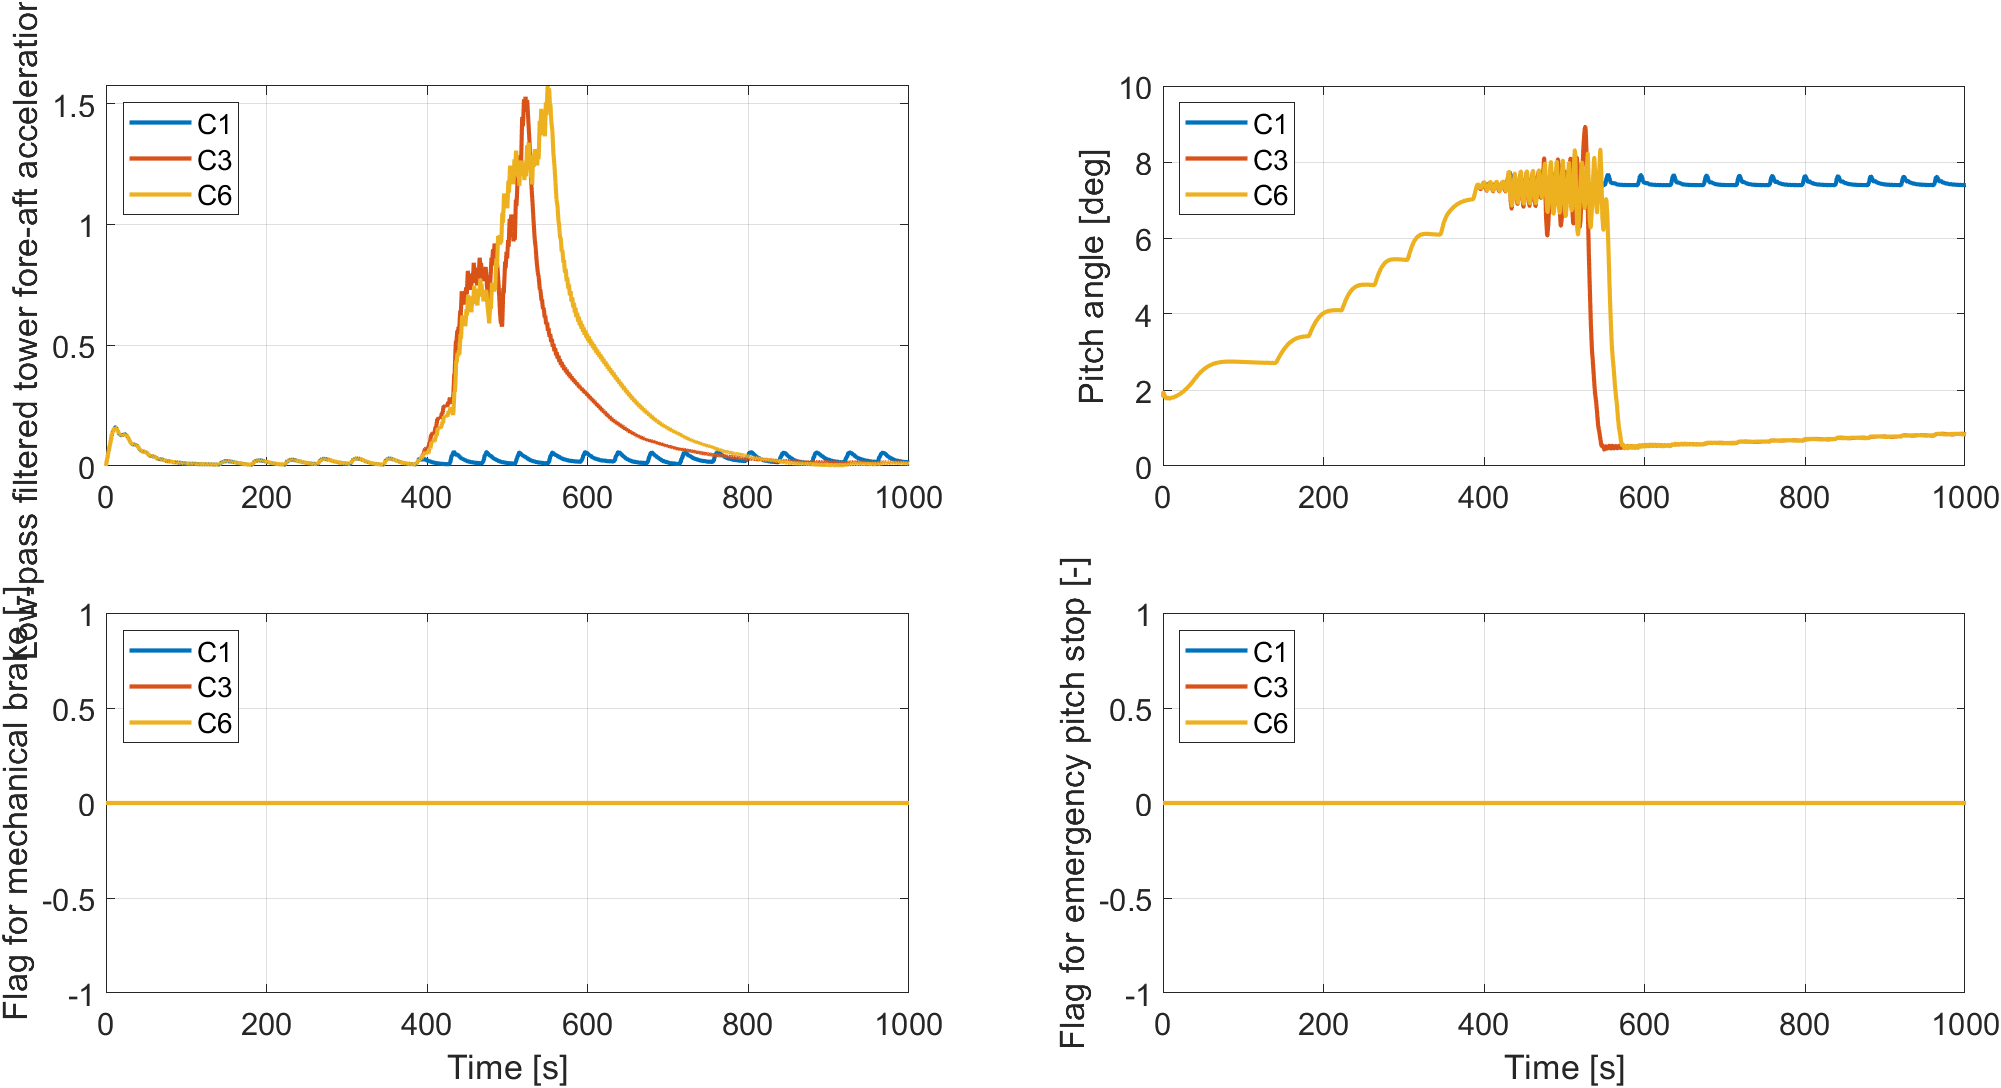
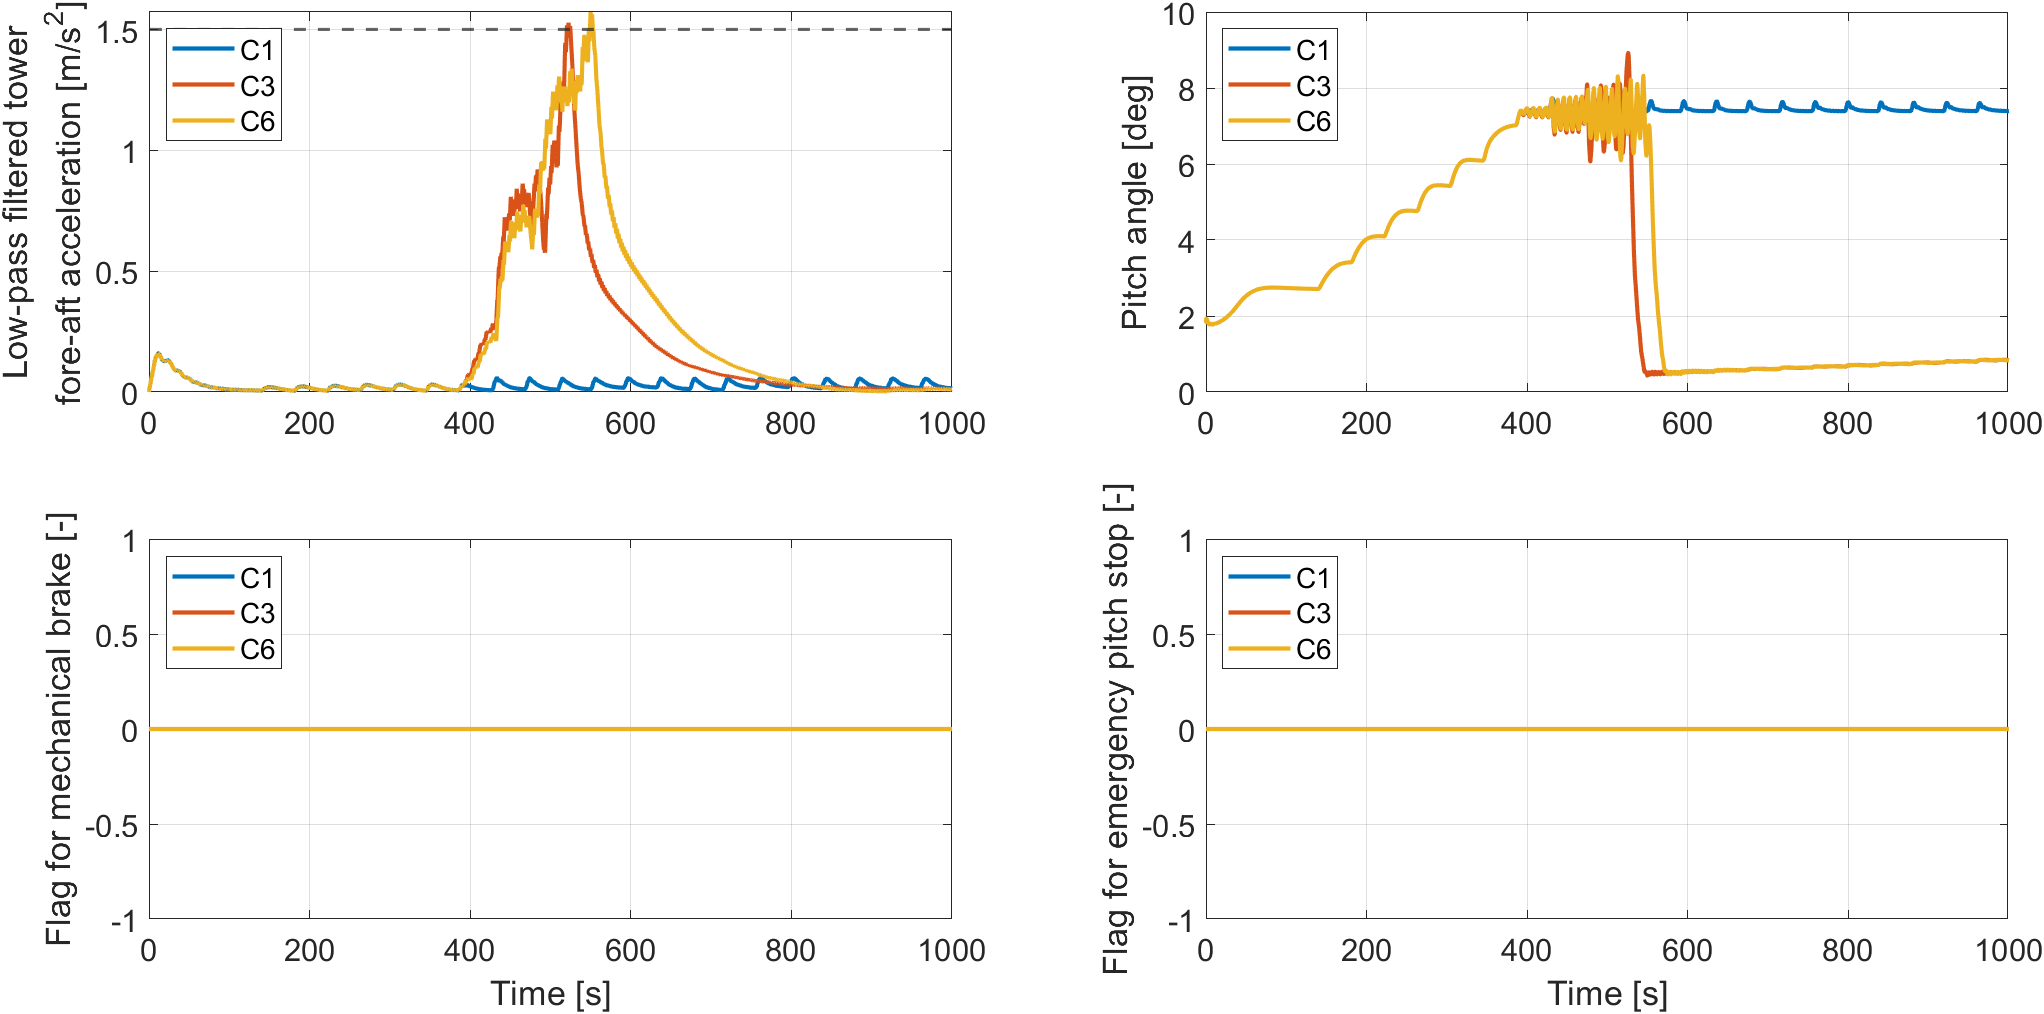
added yline to low-pass filtered acceleration plot

diff --git a/report_1/postProcessing_cont.m b/report_1/postProcessing_cont.m
@@ -157,10 +157,10 @@ if save_var
     saveFig(locs,'C1vsC4',"png");
 end
 
-% Low-pass filtered tower fore-aft acceleration
+%% Low-pass filtered tower fore-aft acceleration
 x = [1,3,6];
 idx = [96,3,94,95];
-ylabels = ["Low-pass filtered tower fore-aft acceleration [m/s^2]", "Pitch angle [deg]", "Flag for mechanical brake [-]", "Flag for emergency pitch stop [-]"];
+ylabels = {["Low-pass filtered tower"; "fore-aft acceleration [m/s^2]"], "Pitch angle [deg]", "Flag for mechanical brake [-]", "Flag for emergency pitch stop [-]"};
 
 figure
 for j = 1:4
@@ -173,7 +173,10 @@ for j = 1:4
     if j > 2
         xlabel('Time [s]');
     end
-    ylabel(ylabels(j))
+    if j == 1
+        yline(1.5,'--','LineWidth',1.5)
+    end
+    ylabel(ylabels{j})
     legend('C1','C3','C6','Location','NW')
     box on
     grid on
